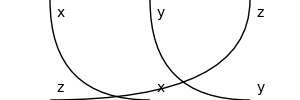
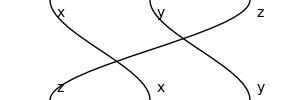
Draw permutation crossings with vertical tangents at both ends
The matplotlib backend drew every wire as a single quadratic Bezier, which
is vertical at one end but horizontal at the other. For a full-height
permutation band that made each crossing wire arrive horizontally at the
lower boxes, so the wires looked broken and the spacing looked lopsided.

Flag wires that go straight from a box's input to its output (the crossing
wires of Drawing.permutation) and render them as a cubic Bezier with control
points directly below the source and above the target, giving vertical
tangents at both ends and a smooth crossing in between. The tikz backend
gets the matching in=90/out=-90 S-curve.

Claude-Session: https://claude.ai/code/session_01Vi9uin4iSwSNJQBhjqVEVg

diff --git a/discopy/drawing/backend.py b/discopy/drawing/backend.py
@@ -83,7 +83,7 @@ class Backend(ABC):
         self.max_width = max(self.max_width, max(i for i, _ in points))
 
     def draw_wire(self, source, target,
-                  bend_out=False, bend_in=False, style=None):
+                  bend_out=False, bend_in=False, style=None, crossing=False):
         """ Draws a wire from source to target, possibly with a Bezier. """
         self.max_width = max(self.max_width, source[0], target[0])
 
@@ -133,6 +133,10 @@ class Backend(ABC):
             if source_position == target_position:
                 continue
             bend_out, bend_in = source.kind == "box", target.kind == "box"
+            # A wire straight from a box's input to its output is a permutation
+            # crossing: draw it as an S-curve with vertical tangents at both
+            # ends rather than the default single-tangent Bezier.
+            crossing = source.kind == "box_dom" and target.kind == "box_cod"
             braid_shadow = DEFAULT["braid_shadow"]
             if source.kind == "box" and source.box.draw_as_braid:
                 if source.box.is_dagger and target.i == 0:
@@ -157,7 +161,8 @@ class Backend(ABC):
                         for x, b, shadow in zip(
                             target_position, [-1, 1], braid_shadow))
             self.draw_wire(
-                source_position, target_position, bend_out, bend_in)
+                source_position, target_position, bend_out, bend_in,
+                crossing=crossing)
 
     def draw_boxes(self, graph, **params):
         drawing_methods = [
@@ -394,7 +399,16 @@ class TikZ(Backend):
         super().draw_polygon(*points)
 
     def draw_wire(self, source, target,
-                  bend_out=False, bend_in=False, style=None):
+                  bend_out=False, bend_in=False, style=None, crossing=False):
+        if crossing:  # An S-curve with vertical tangents at both ends.
+            if source not in self.nodes:
+                self.add_node(*source)
+            if target not in self.nodes:
+                self.add_node(*target)
+            self.edgelayer.append(
+                "\\draw [in=90, out=-90] ({}.center) to ({}.center);\n".format(
+                    self.nodes[source], self.nodes[target]))
+            return super().draw_wire(source, target)
         out = -90 if not bend_out or source[0] == target[0]\
             else (180 if source[0] > target[0] else 0)
         inp = 90 if not bend_in or source[0] == target[0]\
@@ -509,11 +523,22 @@ class Matplotlib(Backend):
         super().draw_polygon(*points)
 
     def draw_wire(self, source, target,
-                  bend_out=False, bend_in=False, style=None):
+                  bend_out=False, bend_in=False, style=None, crossing=False):
         if style == '->':  # pragma: no cover
             self.axis.arrow(
                 *(source + (target[0] - source[0], target[1] - source[1])),
                 head_width=.02, color="black")
+        elif crossing:
+            # A cubic Bezier whose control points sit directly below the source
+            # and above the target, so the tangents are vertical at both ends
+            # while the wire crosses smoothly in between.
+            third = (source[1] - target[1]) / 3
+            path = Path(
+                [source, (source[0], source[1] - third),
+                 (target[0], target[1] + third), target],
+                [Path.MOVETO, Path.CURVE4, Path.CURVE4, Path.CURVE4])
+            self.axis.add_patch(PathPatch(
+                path, facecolor='none', linewidth=self.linewidth))
         else:
             mid = (target[0], source[1])\
                 if bend_out else (source[0], target[1])
